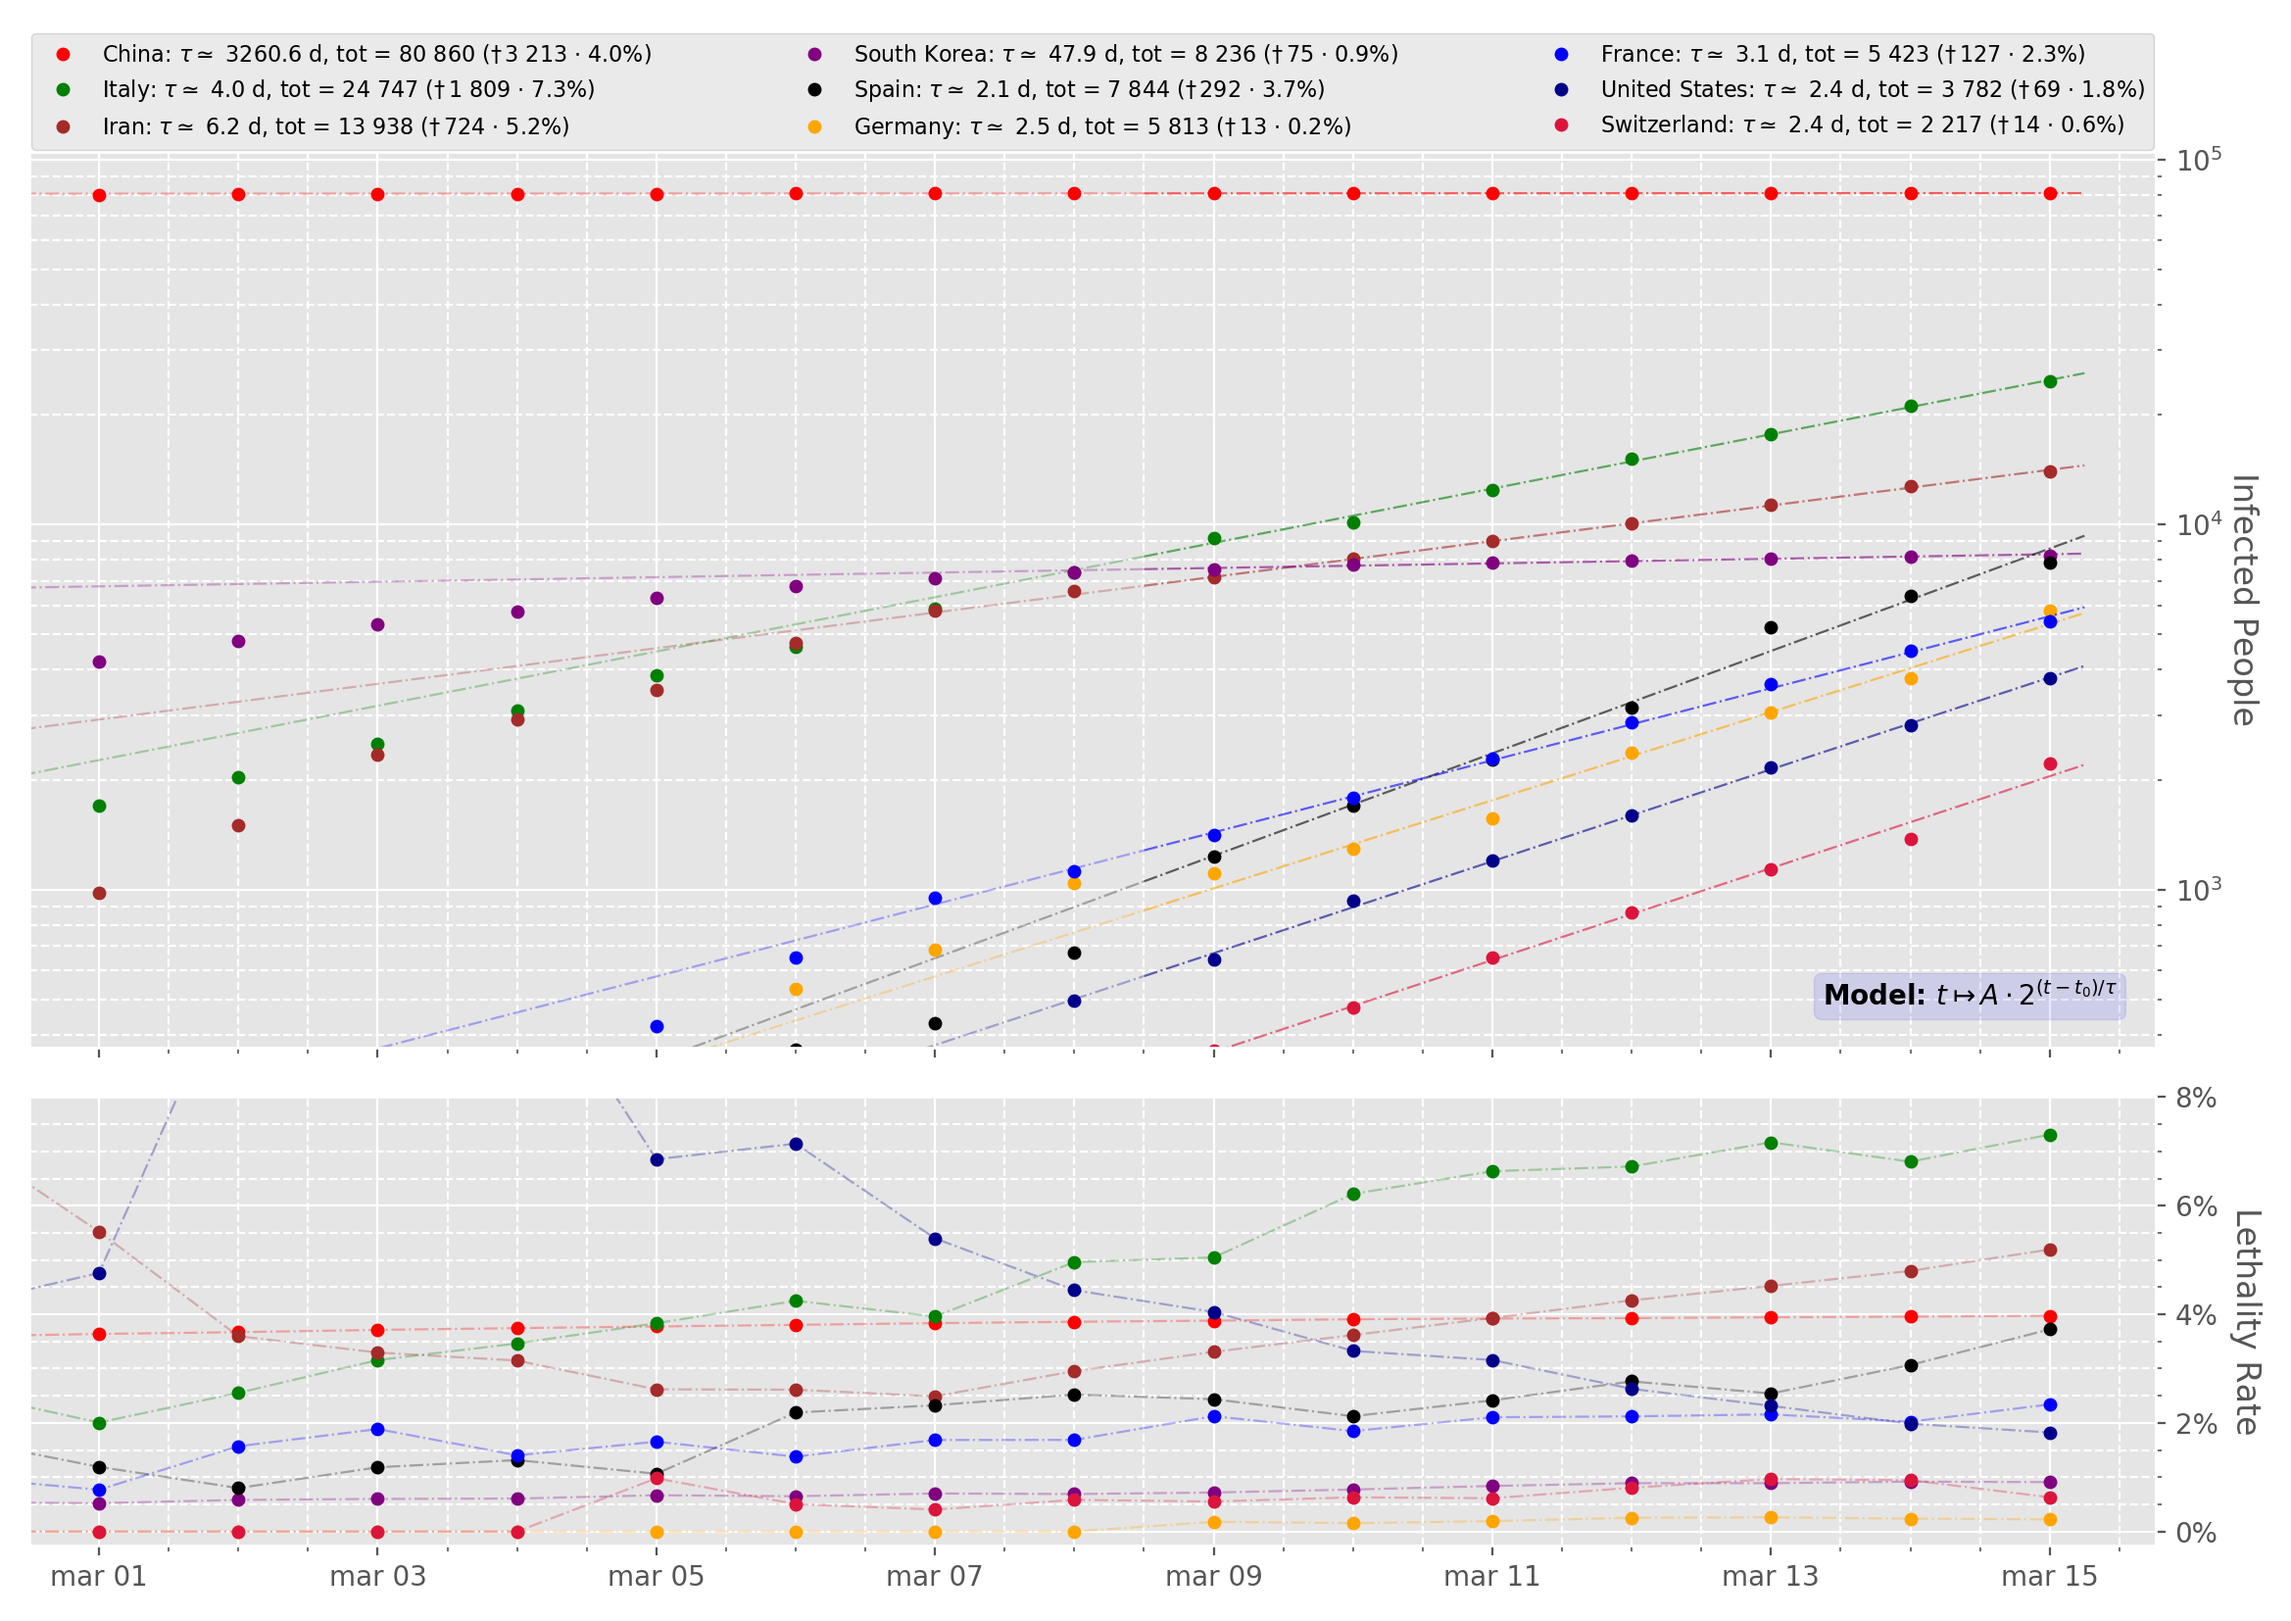
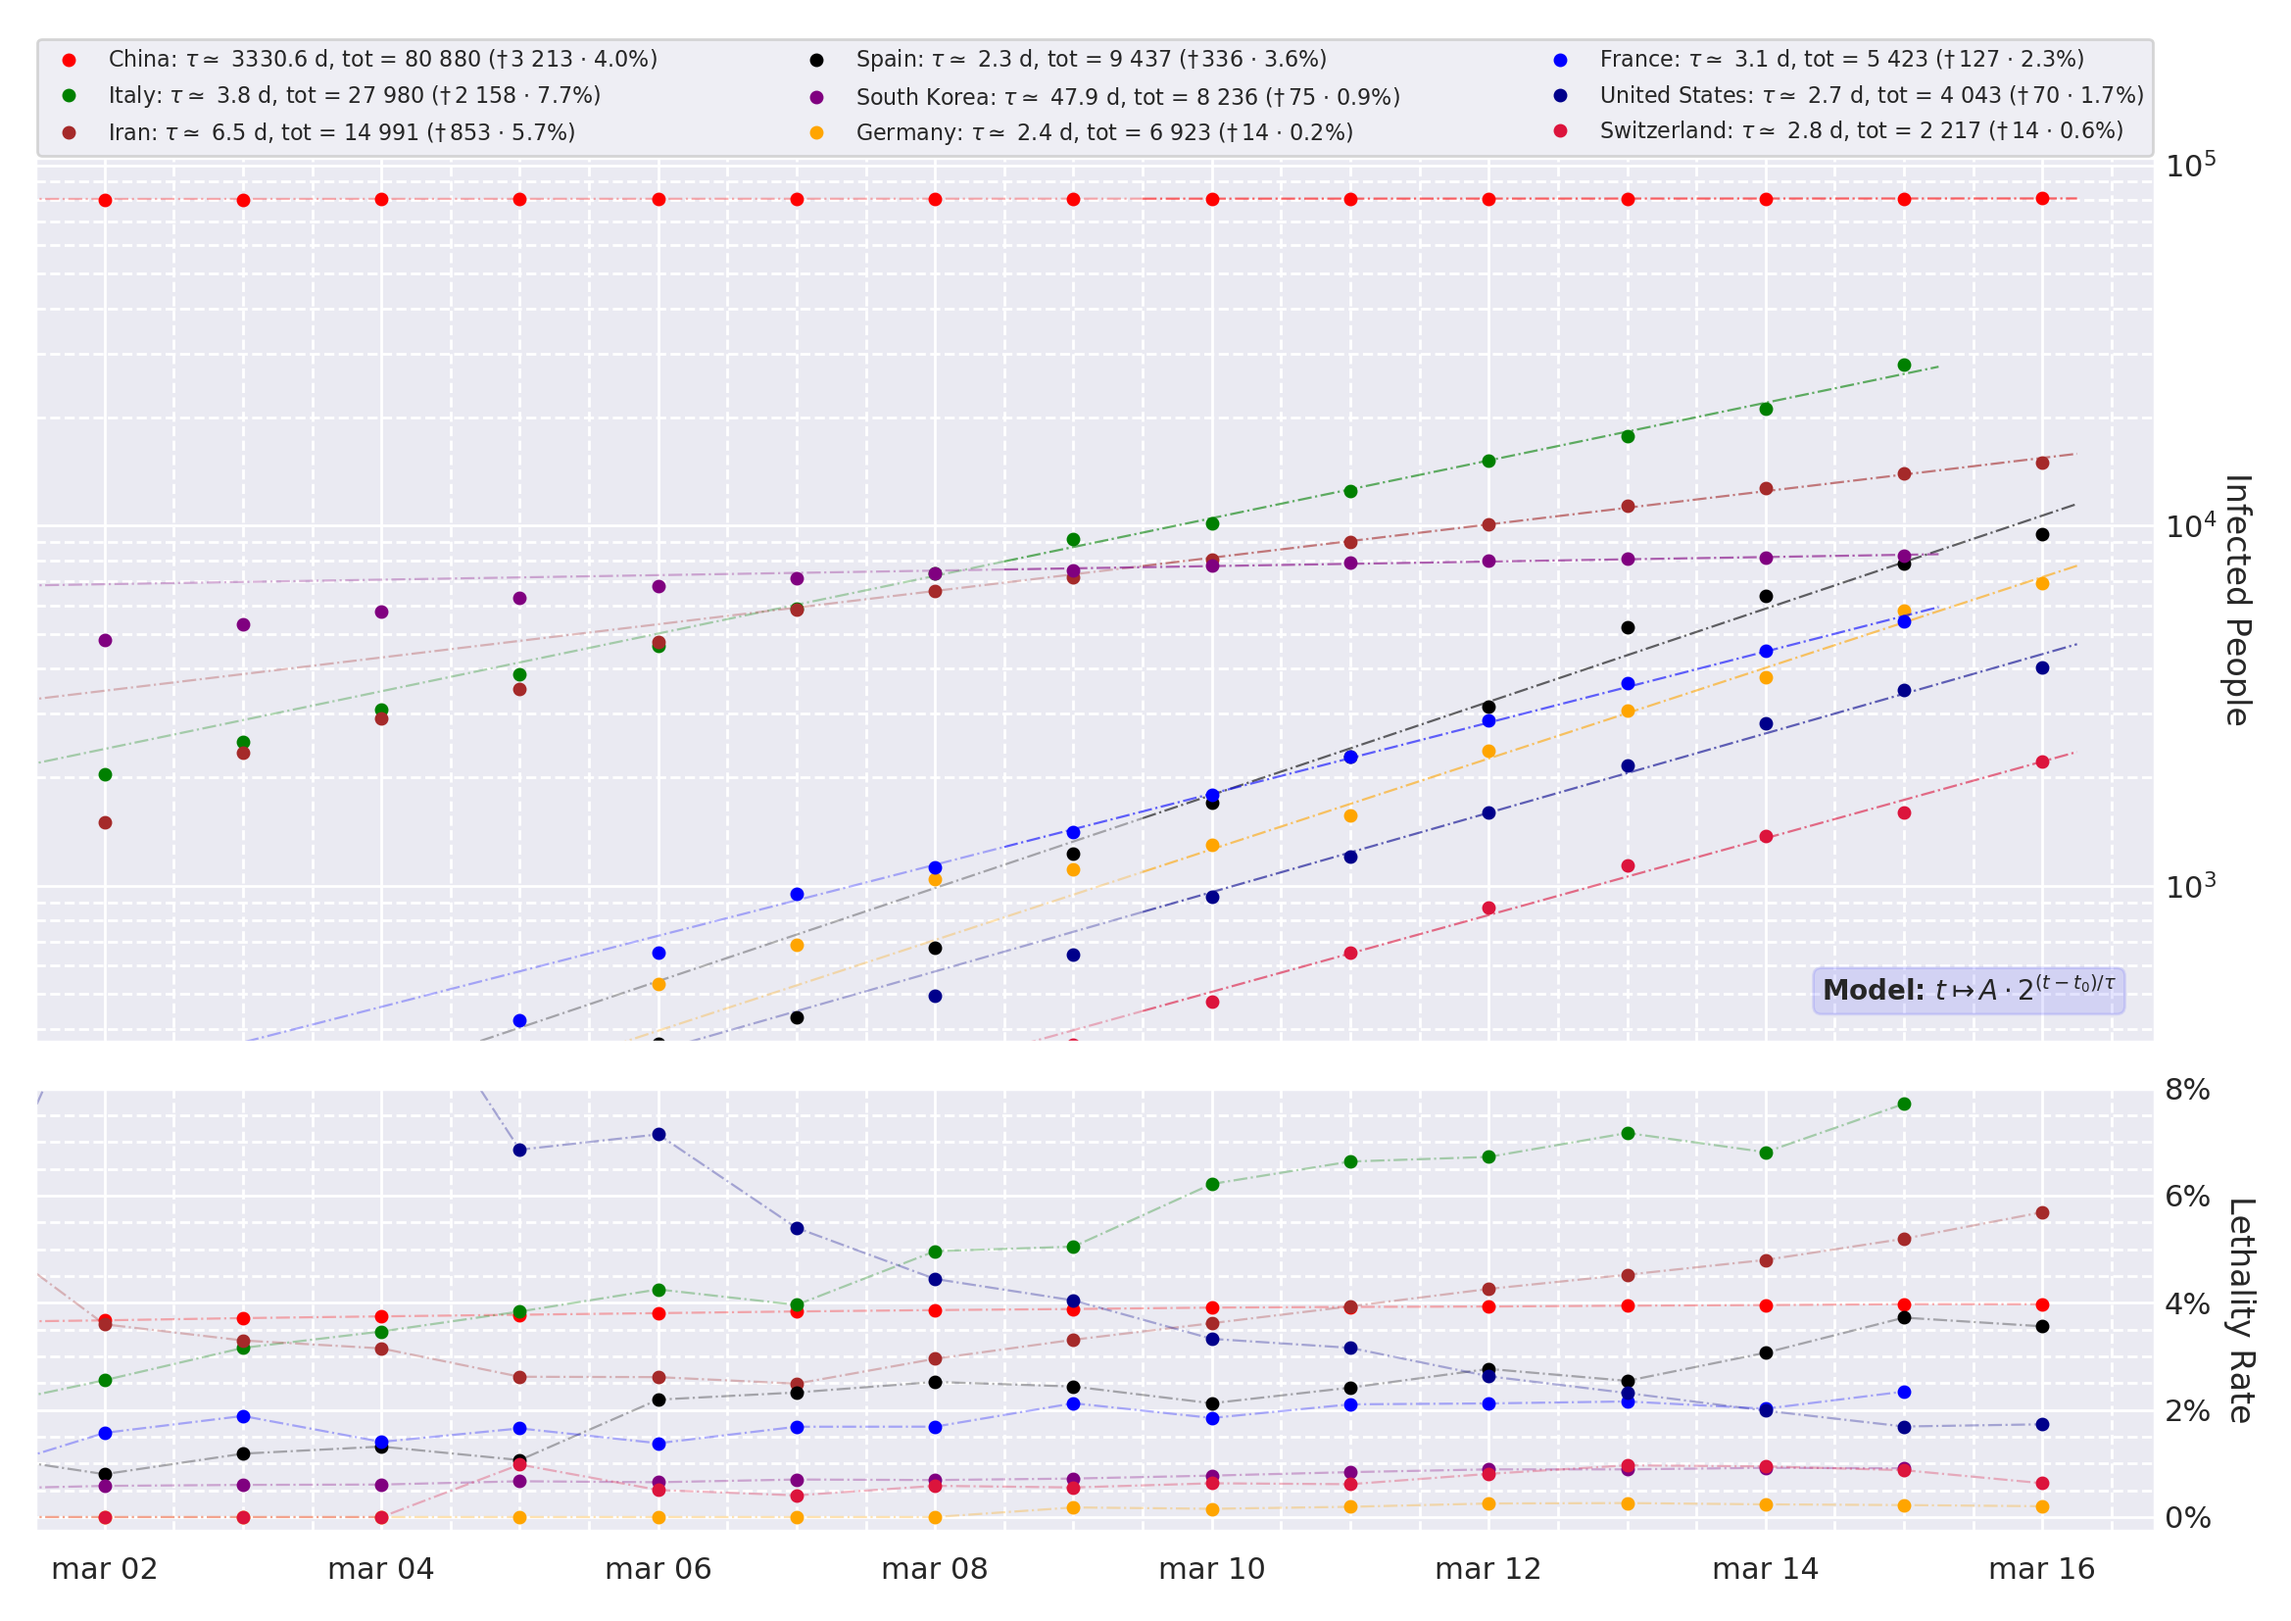
minor commit

diff --git a/Coronavirus/coronavirus.py b/Coronavirus/coronavirus.py
@@ -9,7 +9,8 @@ from scipy.optimize import curve_fit
 from scipy.special import erf
 from pandas.plotting import register_matplotlib_converters
 register_matplotlib_converters()
-
+import seaborn as sns
+sns.set()
 
 def lin(t, b, t0, c):
     return (t-t0)/b + c
@@ -53,7 +54,6 @@ country_ds.sort_values(by=["tot"], ascending=False, inplace=True)
 country_ds.reset_index(drop=True, inplace=True)
 
 plt.rcParams.update({"font.size": 12})
-plt.style.use("ggplot")
 
 f, (ax1, ax2) = plt.subplots(2, 1, sharex=True,
                              figsize=(11.69, 8.27),
@@ -118,6 +118,7 @@ ax1.set_yscale("log")
 ax1.set_ylim(bottom=country_ds["tot"].min()/6)
 ax1.set_ylim(top=country_ds["tot"].max()*1.3)
 ax1.yaxis.tick_right()
+ax1.tick_params(axis="y", which="both", length=0)
 ax1.set_ylabel("Infected People", rotation=270, labelpad=13)
 ax1.yaxis.set_label_position("right")
 
@@ -130,6 +131,7 @@ ax2.set_ylim((-0.25, 8))
 ax2.set_ylabel("Lethality Rate", rotation=270, labelpad=16)
 ax2.minorticks_on()
 ax2.yaxis.tick_right()
+ax2.tick_params(axis="y", which="both", length=0)
 ax2.yaxis.set_label_position("right")
 
 ax1.legend(loc="lower left", fontsize=8, ncol=3,
